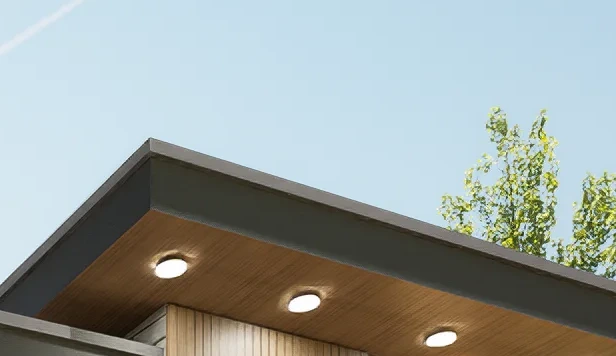
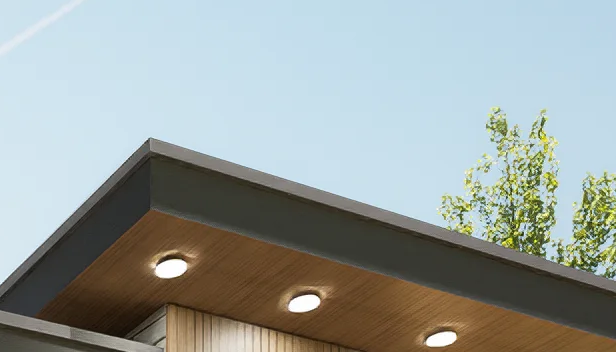
Build Residence II mood board from verified render details

diff --git a/src/components/MoodBoard.tsx b/src/components/MoodBoard.tsx
@@ -3,41 +3,62 @@ import { MediaImage } from "@/components/MediaImage";
 import { renderByFile } from "@/data/project";
 import styles from "./MoodBoard.module.css";
 
-const finishes = [
-  { label: "Timber soffit", ja: "木目の軒天", color: "#845e40" },
-  { label: "Dark framing", ja: "濃色のフレーム", color: "#41413f" },
-  { label: "Pale masonry", ja: "淡色の石積み", color: "#d8cdbb" },
-  { label: "Warm upholstery", ja: "暖色の張り地", color: "#755646" },
+const details = [
+  { image: "soffit", label: "Wood-toned soffit", location: "Above the balcony", ja: "バルコニー上の木目調の軒天" },
+  { image: "framing", label: "Dark roof edge", location: "Upper roof, right side", ja: "上段の屋根の右側" },
+  { image: "masonry", label: "Pale wall", location: "Right boundary wall", ja: "右側の明るい色の外構壁" },
+  { image: "seating", label: "Brown upholstery", location: "Living-room sofa", ja: "リビングのソファの茶色い張り地" },
 ];
 
 export function MoodBoard() {
   return (
-    <div className={styles.board} role="region" aria-labelledby="materials-title" data-reveal>
+    <section
+      className={styles.board}
+      aria-labelledby="materials-title"
+      data-reveal
+    >
       <span className="eyebrow" lang="ja">素材と光</span>
-      <h3 id="materials-title">Materials in light.</h3>
+      <h3 id="materials-title">Under the eaves.</h3>
       <div className={styles.grid}>
-        <div className={styles.facade}>
-          <MediaImage image={renderByFile("MAIN EXTERIOR PERSPECTIVES 2.png")} sizes="(max-width: 700px) 90vw, 52vw" />
-        </div>
-        <div className={styles.room}>
-          <MediaImage image={renderByFile("LIVING AREA VIEW 2.png")} sizes="(max-width: 700px) 90vw, 36vw" />
-        </div>
-        <div className={styles.details} aria-hidden="true">
-          {["soffit", "framing", "masonry"].map((detail) => (
-            <div key={detail} className={styles.detail}>
-              <Image src={`/moodboard/${detail}.webp`} alt="" fill sizes="(max-width: 700px) 28vw, 12vw" />
-            </div>
-          ))}
+        <figure className={styles.facade}>
+          <MediaImage
+            image={renderByFile("MAIN EXTERIOR PERSPECTIVES 2.png")}
+            sizes="(max-width: 850px) 90vw, 51vw"
+          />
+          <figcaption>
+            Exterior perspective <span lang="ja">外観</span>
+          </figcaption>
+        </figure>
+        <div className={styles.study}>
+          <figure className={styles.room}>
+            <MediaImage
+              image={renderByFile("LIVING AREA VIEW 2.png")}
+              sizes="(max-width: 480px) 90vw, (max-width: 850px) 58vw, 24vw"
+            />
+            <figcaption>
+              Living room <span lang="ja">リビング</span>
+            </figcaption>
+          </figure>
+          <div className={styles.details}>
+            {details.map(({ image, label, location, ja }) => (
+              <figure key={image}>
+                <div className={styles.crop}>
+                  <Image src={`/moodboard/${image}.webp`} alt="" fill />
+                </div>
+                <figcaption>
+                  {label}
+                  <small>{location}</small>
+                  <span lang="ja">{ja}</span>
+                </figcaption>
+              </figure>
+            ))}
+          </div>
         </div>
       </div>
-      <ul className={styles.legend} aria-label="Material palette">
-        {finishes.map(({ label, ja, color }) => (
-          <li key={label}>
-            <i style={{ backgroundColor: color }} aria-hidden="true" />
-            <span>{label}<small lang="ja">{ja}</small></span>
-          </li>
-        ))}
-      </ul>
-    </div>
+      <p className={styles.note}>
+        Details cropped from the supplied architectural renders.
+        <span lang="ja">提供された建築パースから細部を抜粋しています。</span>
+      </p>
+    </section>
   );
 }

diff --git a/src/components/MoodBoard.module.css b/src/components/MoodBoard.module.css
@@ -11,58 +11,84 @@
 
 .grid {
   display: grid;
-  grid-template-columns: 3fr 2fr;
-  grid-template-rows: minmax(0, 2.4fr) minmax(0, 1fr);
-  aspect-ratio: 1.95;
-  gap: clamp(4px, 0.55vw, 10px);
+  grid-template-columns: minmax(0, 1.35fr) minmax(0, 1fr);
+  gap: clamp(1.25rem, 2.5vw, 3rem);
+  align-items: start;
 }
 
-.facade { grid-row: span 2; }
-.grid > div { min-width: 0; min-height: 0; }
-.grid img { width: 100%; height: 100%; object-fit: cover; }
-.details { display: grid; grid-template-columns: repeat(3, 1fr); gap: inherit; }
-.detail { position: relative; }
-.board .legend { border-color: var(--hairline); }
-.legend small { color: var(--muted); }
-
-@media (max-width: 700px) {
-  .grid { grid-template-columns: 1fr; grid-template-rows: auto; aspect-ratio: auto; gap: 0.5rem; }
-  .facade { grid-row: auto; }
-  .room { aspect-ratio: 1.6; }
-  .detail { aspect-ratio: 1.25; }
-}
-
-.legend {
-  list-style: none;
-  margin: 1.75rem 0 0;
-  padding: 1.25rem 0 0;
-  border-top: 1px solid currentColor;
+.study {
   display: grid;
-  grid-template-columns: repeat(4, minmax(0, 1fr));
-  gap: 1rem;
+  gap: clamp(1.25rem, 2vw, 2rem);
 }
 
-.legend li {
-  display: flex;
-  align-items: baseline;
-  gap: 0.7rem;
+.room {
+  display: grid;
+  grid-template-columns: minmax(0, 1.7fr) minmax(0, 1fr);
+  gap: 0.875rem;
+  align-items: start;
+}
+
+.room figcaption {
+  padding-block: 0.625rem;
+  border-top: 1px solid var(--hairline);
+}
+
+.facade figcaption {
+  margin-top: 0.875rem;
+}
+
+.details {
+  display: grid;
+  grid-template-columns: repeat(2, minmax(0, 1fr));
+  gap: clamp(1rem, 1.8vw, 1.75rem);
+}
+
+.crop {
+  position: relative;
+  aspect-ratio: 7 / 4;
+  background: var(--surface);
+}
+
+.crop img {
+  object-fit: cover;
+}
+
+.details figcaption {
+  margin-top: 0.5rem;
   line-height: 1.4;
 }
 
-.legend i {
-  flex: 0 0 1rem;
-  height: 1rem;
-  align-self: flex-start;
-  margin-top: 0.15em;
-  border: 1px solid #8885;
-}
-
-.legend small {
+.board figcaption span,
+.details small,
+.note span {
   display: block;
-  margin-top: 0.4em;
+  color: var(--muted);
   font-size: 0.75rem;
+  margin-top: 0.25rem;
 }
 
-@media (max-width: 700px) {
-  .legend { grid-template-columns: repeat(2, minmax(0, 1fr)); }
+.note {
+  margin-top: 1.75rem;
+  padding-top: 1rem;
+  border-top: 1px solid var(--hairline);
+  color: var(--muted);
+  font-size: 0.875rem;
+}
+
+@media (max-width: 850px) {
+  .grid {
+    grid-template-columns: minmax(0, 1fr);
+  }
+}
+
+@media (max-width: 480px) {
+  .room {
+    display: block;
+  }
+
+  .room figcaption {
+    padding: 0;
+    border: 0;
+    margin-top: 0.5rem;
+  }
 }
